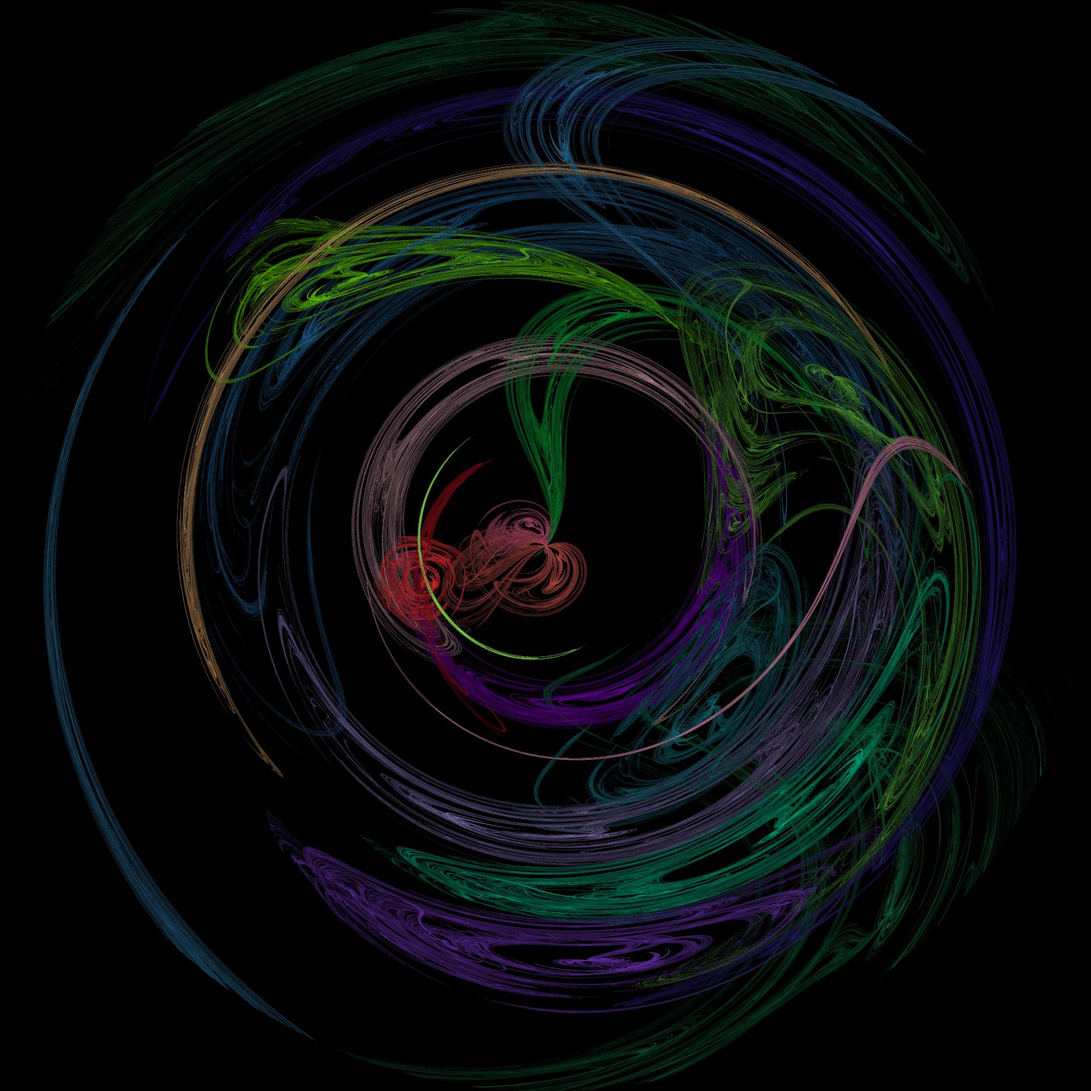
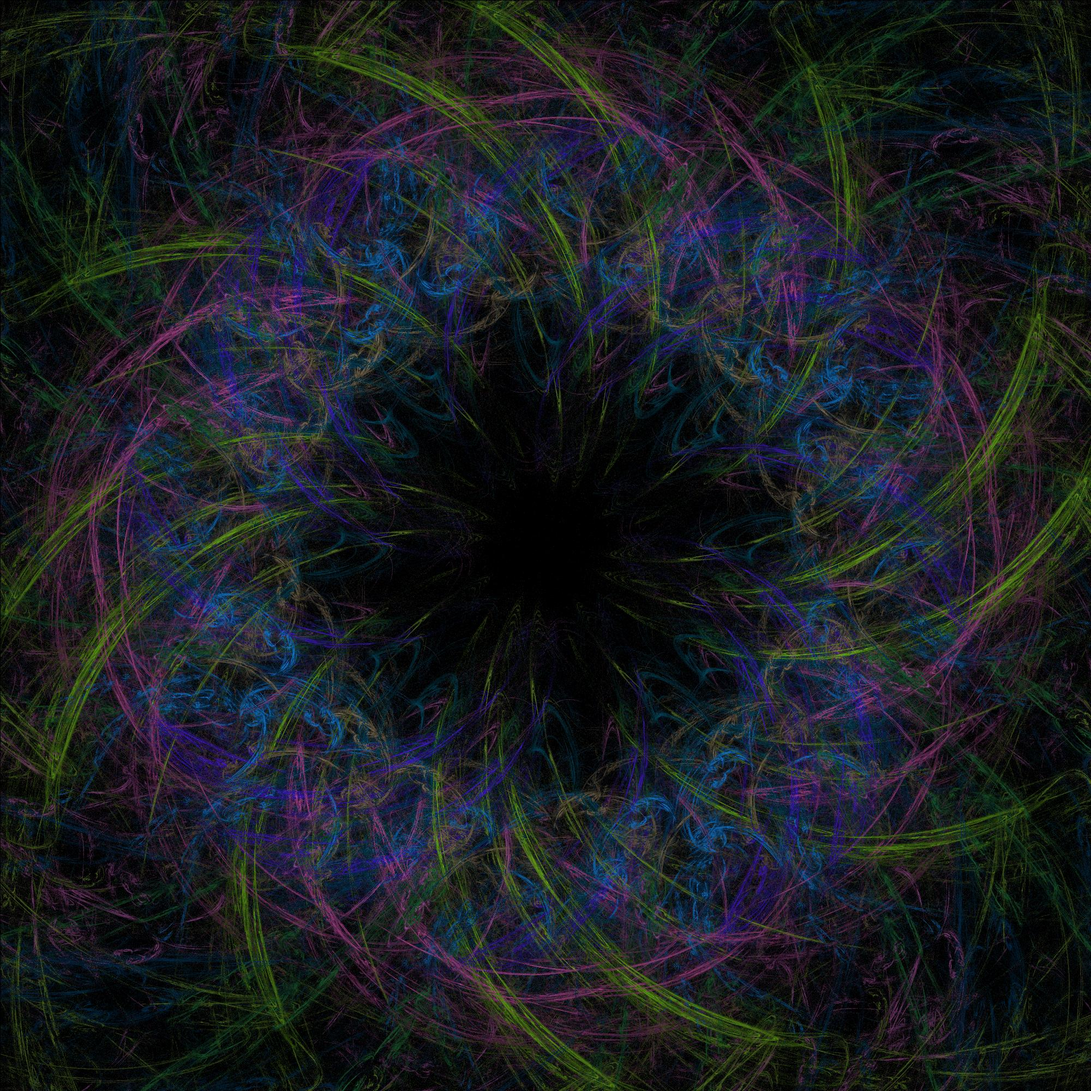
Добавил симметрию

diff --git a/src/main/java/edu/project4/FractalFlame.java b/src/main/java/edu/project4/FractalFlame.java
@@ -60,7 +60,7 @@ public class FractalFlame {
         }
     }
 
-    public void render(int n, int eqCount, int it, NonLinearTransforms transform, int threads) {
+    public void render(int n, int eqCount, int it, int symmetry, NonLinearTransforms transform, int threads) {
         if (transform == null) {
             throw new IllegalArgumentException();
         }
@@ -71,14 +71,15 @@ public class FractalFlame {
                 executorService.submit(() -> {
                     double newX = ThreadLocalRandom.current().nextDouble(X_MIN, X_MAX);
                     double newY = ThreadLocalRandom.current().nextDouble(Y_MIN, Y_MAX);
-                    iterate(it, newX, newY, transformations, transform);
+                    iterate(it, newX, newY, symmetry, transformations, transform);
                 });
             }
         }
     }
 
     private void iterate(
-        int iterations, double x, double y, Transformation[] transformations, NonLinearTransforms transform
+        int iterations, double x, double y,
+        int symmetry, Transformation[] transformations, NonLinearTransforms transform
     ) {
         double newX = x;
         double newY = y;
@@ -93,27 +94,34 @@ public class FractalFlame {
             Point nonLinear = getTransform(newX, newY, transform);
             newX = nonLinear.x();
             newY = nonLinear.y();
-            if (step >= 0 && X_MIN <= newX && newX <= X_MAX && Y_MIN <= newY && newY <= Y_MAX) {
-                //Вычисляем координаты точки, а затем задаем цвет
-                int x1 = (int) (height - Math.floor(((X_MAX - newX) / (X_MAX - X_MIN)) * height));
-                int y1 = (int) (width - Math.floor(((Y_MAX - newY) / (Y_MAX - Y_MIN)) * width));
-                //Если точка попала в область изображения
-                if (x1 < height && y1 < width) {
-                    synchronized (pixels[x1][y1]) {
-                        //то проверяем, первый ли раз попали в нее
-                        if (pixels[x1][y1].getCounter() == 0) {
-                            //Попали в первый раз, берем стартовый цвет у соответствующего аффинного преобразования
-                            pixels[x1][y1].setRed(afine.red());
-                            pixels[x1][y1].setGreen(afine.green());
-                            pixels[x1][y1].setBlue(afine.blue());
-                        } else {
-                            //Попали не в первый раз, считаем так:
-                            pixels[x1][y1].setRed((pixels[x1][y1].getRed() + afine.red()) / 2);
-                            pixels[x1][y1].setGreen((pixels[x1][y1].getGreen() + afine.green()) / 2);
-                            pixels[x1][y1].setBlue((pixels[x1][y1].getBlue() + afine.blue()) / 2);
+            var theta2 = 0.0;
+            for (int s = 0; s < symmetry; s++) {
+                theta2 += (Math.PI * 2) / symmetry;
+                var rotated = rotate(new Point(newX, newY), theta2);
+                newX = rotated.x();
+                newY = rotated.y();
+                if (step >= 0 && X_MIN <= newX && newX <= X_MAX && Y_MIN <= newY && newY <= Y_MAX) {
+                    //Вычисляем координаты точки, а затем задаем цвет
+                    int x1 = (int) (height - Math.floor(((X_MAX - newX) / (X_MAX - X_MIN)) * height));
+                    int y1 = (int) (width - Math.floor(((Y_MAX - newY) / (Y_MAX - Y_MIN)) * width));
+                    //Если точка попала в область изображения
+                    if (x1 < height && y1 < width) {
+                        synchronized (pixels[x1][y1]) {
+                            //то проверяем, первый ли раз попали в нее
+                            if (pixels[x1][y1].getCounter() == 0) {
+                                //Попали в первый раз, берем стартовый цвет у соответствующего аффинного преобразования
+                                pixels[x1][y1].setRed(afine.red());
+                                pixels[x1][y1].setGreen(afine.green());
+                                pixels[x1][y1].setBlue(afine.blue());
+                            } else {
+                                //Попали не в первый раз, считаем так:
+                                pixels[x1][y1].setRed((pixels[x1][y1].getRed() + afine.red()) / 2);
+                                pixels[x1][y1].setGreen((pixels[x1][y1].getGreen() + afine.green()) / 2);
+                                pixels[x1][y1].setBlue((pixels[x1][y1].getBlue() + afine.blue()) / 2);
+                            }
+                            //Увеличиваем счетчик точки на единицу
+                            pixels[x1][y1].incrementCounter();
                         }
-                        //Увеличиваем счетчик точки на единицу
-                        pixels[x1][y1].incrementCounter();
                     }
                 }
             }
@@ -185,5 +193,11 @@ public class FractalFlame {
                     .setBlue(Math.min((int) (pixels[row][col].getBlue() * gammaFactor), MAX_COLOR_VALUE));
             }
         }
+    }
+
+    private Point rotate(Point point, double theta) {
+        double xRotated = point.x() * Math.cos(theta) - point.y() * Math.sin(theta);
+        double yRotated = point.x() * Math.sin(theta) + point.y() * Math.cos(theta);
+        return new Point(xRotated, yRotated);
     }
 }

diff --git a/src/test/java/edu/project4/FractalFlameTest.java b/src/test/java/edu/project4/FractalFlameTest.java
@@ -15,7 +15,7 @@ public class FractalFlameTest {
         int height = 1080;
         int width = 1920;
         FractalFlame fractalFlame = new FractalFlame(height, width);
-        fractalFlame.render(1000, 1000, 1000, NonLinearTransforms.DISK, 5);
+        fractalFlame.render(1000, 1000, 1000, 0, NonLinearTransforms.DISK, 5);
         fractalFlame.correction(0.2);
         fractalFlame.createFile("testFractal", ImageType.JPG);
         File file = new File("testFractal.jpg");
@@ -33,7 +33,7 @@ public class FractalFlameTest {
         int height = 1080;
         int width = 1920;
         FractalFlame fractalFlame = new FractalFlame(height, width);
-        Assertions.assertThrows(IllegalArgumentException.class, () -> fractalFlame.render(1000, 1000, 1000, null, 5));
+        Assertions.assertThrows(IllegalArgumentException.class, () -> fractalFlame.render(1000, 1000, 1000, 0, null, 5));
         Assertions.assertThrows(IllegalArgumentException.class, () -> fractalFlame.createFile("testFractal", null));
     }
 }

diff --git a/src/main/java/edu/project4/Pixel.java b/src/main/java/edu/project4/Pixel.java
@@ -5,7 +5,6 @@ public class Pixel {
     private int green = 0;
     private int blue = 0;
     private int counter = 0;
-    private double normal = 0;
 
     public int getRed() {
         return red;
@@ -37,13 +36,5 @@ public class Pixel {
 
     public int getCounter() {
         return counter;
-    }
-
-    public double getNormal() {
-        return normal;
-    }
-
-    public void setNormal(double normal) {
-        this.normal = normal;
     }
 }

diff --git a/src/main/java/edu/project4/NewMain.java b/src/main/java/edu/project4/NewMain.java
@@ -6,7 +6,7 @@ public class NewMain {
         int height = 2000;
         int width = 2000;
         FractalFlame fractalFlame = new FractalFlame(height, width);
-        fractalFlame.render(10000, 20, 10000, NonLinearTransforms.DISK, 5);
+        fractalFlame.render(1000, 10, 10000, 20, NonLinearTransforms.SPHERIC, 5);
         fractalFlame.correction(0);
         fractalFlame.createFile("newFractal", ImageType.JPG);
     }
